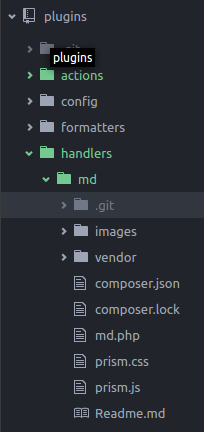
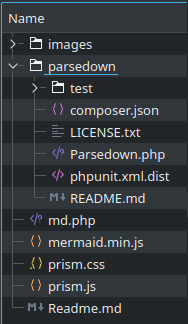
Some Readme stuff.

Changed region(s): [[0.0, 0.0, 0.9043, 1.0], [0.133, 0.1543, 0.1596, 0.1852]]

diff --git a/Readme.md b/Readme.md
@@ -40,6 +40,12 @@ For example:
  wikka.php?wakka=mmymdoc.md
 ```
 
+3. Clone the Parsedown repository to the parsedown directory
+For example:
+```
+git clone git@github.com:erusev/parsedown.git parsedown/
+```
+
 ### How install it?
 This plugins has two behaviors:
 
